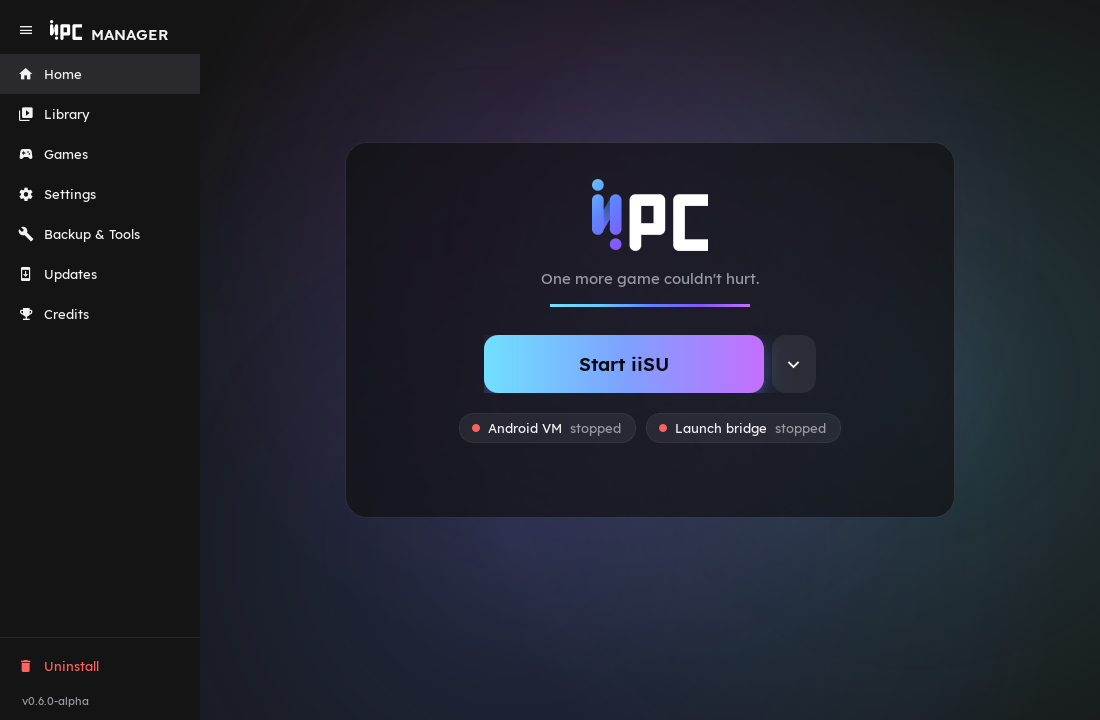
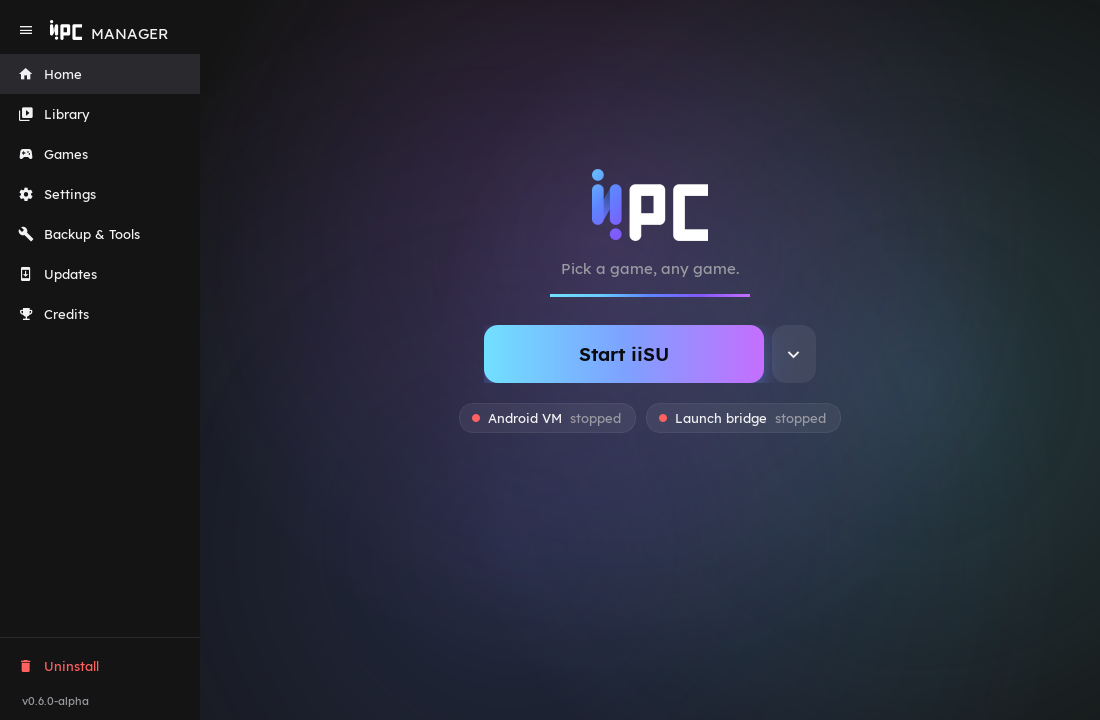
A light theme for the Manager
- Settings > General > Manager theme: Match Windows (default), Dark or
  Light, applied when the Manager next opens. Setup follows it too.
- The light palette lives beside the dark one in shared/qt_theme.py; the
  black iiPC mark is used on it.
- "SETUP" and "MANAGER" beside the mark in the main UI font, regular weight.
- Home's translucent panel removed.
- Docs screenshots stay dark whatever the PC is set to.

Changed region(s): [[0.3091, 0.1833, 0.8655, 0.7333], [0.0927, 0.0306, 0.1545, 0.0611]]

diff --git a/shared/qt_theme.py b/shared/qt_theme.py
@@ -1,5 +1,5 @@
 """
-Shared dark-UI theme for Community-iiSU-PC's PySide6 front ends.
+Shared dark and light UI theme for Community-iiSU-PC's PySide6 front ends.
 
 It uses what Qt offers: real rounded corners, a native gradient brush, and a
 stylesheet Qt fully owns end to end (including dropdown popups).
@@ -14,25 +14,76 @@ from pathlib import Path
 
 from PySide6.QtGui import QColor, QFont, QFontDatabase, QLinearGradient, QPalette
 
-BG = "#141414"
-PANEL_BG = "#212124"
-PANEL_BG_HOVER = "#2a2a2e"
-TEXT = "#f2f2f4"
-TEXT_DIM = "#9a9aa2"
-GRADIENT_STOPS = ["#71e0ff", "#68ccff", "#5e84ff", "#8258fa", "#c56eff"]
-GREEN = "#4fd67a"
-RED = "#ff6161"
-AMBER = "#e8a33d"
-GRAY = "#5a5a60"
+import json
+import os
 
-# Shared by every input widget.
-INPUT_BG = "#0e0e10"
-LOG_TEXT = "#c9c9ce"
-ACCENT_BG = "#3a3a40"
-ACCENT_BG_HOVER = "#48484f"
+
+def _chosen_theme() -> str:
+    """"dark" or "light", picked once when this module is first imported (so
+    changing it takes a restart). IIPC_THEME wins (screenshots, tests), then
+    "manager_theme" in bridge/config.json: "dark", "light", or "system"
+    (the default), which follows Windows' app mode."""
+    choice = os.environ.get("IIPC_THEME", "").strip().lower()
+    if not choice:
+        config_path = Path(__file__).resolve().parent.parent / "bridge" / "config.json"
+        try:
+            choice = str(json.loads(config_path.read_text(encoding="utf-8")).get("manager_theme", "system")).lower()
+        except (OSError, ValueError, AttributeError):
+            choice = "system"
+    if choice in ("dark", "light"):
+        return choice
+    try:
+        from bridge.system_theme import detect_theme
+
+        return detect_theme()
+    except Exception:
+        return "dark"
+
+
+THEME = _chosen_theme()
+IS_LIGHT = THEME == "light"
+
+GRADIENT_STOPS = ["#71e0ff", "#68ccff", "#5e84ff", "#8258fa", "#c56eff"]
 DIRTY_BG = "#c98a2b"
 DIRTY_BG_HOVER = "#d99a3b"
 DIRTY_TEXT = "#1a1206"
+
+if IS_LIGHT:
+    BG = "#f3f3f6"
+    PANEL_BG = "#ffffff"
+    PANEL_BG_HOVER = "#e7e8ee"
+    TEXT = "#1a1a1f"
+    TEXT_DIM = "#686872"
+    GREEN = "#1f9d4f"
+    RED = "#d63a3a"
+    AMBER = "#b5730f"
+    GRAY = "#a9a9b2"
+    INPUT_BG = "#fbfbfd"
+    LOG_TEXT = "#34343b"
+    ACCENT_BG = "#dcdde5"
+    ACCENT_BG_HOVER = "#cfd0d9"
+    # Focus and links: the gradient's cyan is too pale on white.
+    FOCUS = "#3a5ac4"
+    # The colour see-through tints are mixed from, as "r, g, b".
+    INK_RGB = "0, 0, 0"
+    SELECTED_TEXT = "#ffffff"
+else:
+    BG = "#141414"
+    PANEL_BG = "#212124"
+    PANEL_BG_HOVER = "#2a2a2e"
+    TEXT = "#f2f2f4"
+    TEXT_DIM = "#9a9aa2"
+    GREEN = "#4fd67a"
+    RED = "#ff6161"
+    AMBER = "#e8a33d"
+    GRAY = "#5a5a60"
+    INPUT_BG = "#0e0e10"
+    LOG_TEXT = "#c9c9ce"
+    ACCENT_BG = "#3a3a40"
+    ACCENT_BG_HOVER = "#48484f"
+    FOCUS = GRADIENT_STOPS[0]
+    INK_RGB = "255, 255, 255"
+    SELECTED_TEXT = "#101010"
 
 # 8/16/24px spacing scale used consistently by PageBase/Card, so no page
 # hand-tunes its own padding.
@@ -139,7 +190,7 @@ def build_palette() -> QPalette:
     palette.setColor(QPalette.ColorRole.ToolTipBase, QColor(PANEL_BG))
     palette.setColor(QPalette.ColorRole.ToolTipText, QColor(TEXT))
     palette.setColor(QPalette.ColorRole.Highlight, QColor(GRADIENT_STOPS[2]))
-    palette.setColor(QPalette.ColorRole.HighlightedText, QColor("#101010"))
+    palette.setColor(QPalette.ColorRole.HighlightedText, QColor(SELECTED_TEXT))
     palette.setColor(QPalette.ColorGroup.Disabled, QPalette.ColorRole.Text, QColor(TEXT_DIM))
     palette.setColor(QPalette.ColorGroup.Disabled, QPalette.ColorRole.ButtonText, QColor(TEXT_DIM))
     return palette
@@ -221,14 +272,6 @@ QPushButton#RowButton:hover {{
     background-color: {ACCENT_BG};
 }}
 
-QFrame#HomePanel {{
-    background-color: rgba(14, 14, 16, 165);
-    border: 1px solid rgba(255, 255, 255, 18);
-    border-radius: 22px;
-}}
-QFrame#HomePanel QLabel {{
-    background: transparent;
-}}
 QPushButton#HomePrimary {{
     border-radius: 14px;
     padding: 10px 28px;
@@ -246,7 +289,7 @@ QPushButton#HomePrimary:pressed {{
 }}
 QPushButton#HomePrimary[mode="stop"] {{
     color: {TEXT};
-    background: rgba(255, 255, 255, 0.07);
+    background: rgba({INK_RGB}, 0.07);
     border: 1px solid rgba(255, 97, 97, 0.6);
 }}
 QPushButton#HomePrimary[mode="stop"]:hover {{
@@ -254,23 +297,23 @@ QPushButton#HomePrimary[mode="stop"]:hover {{
 }}
 QPushButton#HomePrimary:disabled, QPushButton#HomePrimary[mode="stop"]:disabled {{
     color: {TEXT_DIM};
-    background: rgba(255, 255, 255, 0.07);
+    background: rgba({INK_RGB}, 0.07);
     border: none;
 }}
 QPushButton#HomeCaret {{
     border-radius: 14px;
     padding: 0;
-    background: rgba(255, 255, 255, 0.07);
+    background: rgba({INK_RGB}, 0.07);
 }}
 QPushButton#HomeCaret:hover {{
-    background: rgba(255, 255, 255, 0.14);
+    background: rgba({INK_RGB}, 0.14);
 }}
 QPushButton:focus {{
-    color: {GRADIENT_STOPS[0]};
+    color: {FOCUS};
     background-color: {PANEL_BG_HOVER};
 }}
 QCheckBox:focus, QRadioButton:focus {{
-    color: {GRADIENT_STOPS[0]};
+    color: {FOCUS};
 }}
 
 QPushButton#HelpButton {{
@@ -287,14 +330,14 @@ QPushButton#HelpButton:hover {{
 }}
 QFrame#ProblemCard {{
 
-    background-color: rgba(18, 18, 22, 0.82);
+    background-color: {PANEL_BG};
     border: 1px solid rgba(255, 107, 107, 0.45);
     border-radius: 14px;
 }}
 QFrame#StatusChip {{
 
-    background-color: rgba(255, 255, 255, 0.06);
-    border: 1px solid rgba(255, 255, 255, 0.08);
+    background-color: rgba({INK_RGB}, 0.06);
+    border: 1px solid rgba({INK_RGB}, 0.08);
     border-radius: 14px;
 }}
 QFrame#StatusChip QLabel {{
@@ -316,7 +359,7 @@ QLineEdit, QTextEdit, QPlainTextEdit {{
     border-radius: 4px;
     padding: 4px 6px;
     selection-background-color: {GRADIENT_STOPS[2]};
-    selection-color: #101010;
+    selection-color: {SELECTED_TEXT};
 }}
 QLineEdit:focus, QTextEdit:focus, QPlainTextEdit:focus {{
     border: 1px solid {GRADIENT_STOPS[2]};
@@ -356,7 +399,7 @@ QComboBox QAbstractItemView {{
     color: {TEXT};
     border: 1px solid {PANEL_BG_HOVER};
     selection-background-color: {GRADIENT_STOPS[2]};
-    selection-color: #101010;
+    selection-color: {SELECTED_TEXT};
     outline: none;
 }}
 
@@ -384,7 +427,7 @@ QTreeView::item, QTableView::item, QListView::item {{
 }}
 QTreeView::item:selected, QTableView::item:selected, QListView::item:selected {{
     background-color: {GRADIENT_STOPS[2]};
-    color: #101010;
+    color: {SELECTED_TEXT};
 }}
 QHeaderView::section {{
     background-color: {PANEL_BG};
@@ -449,7 +492,7 @@ QMenu::item {{
 }}
 QMenu::item:selected {{
     background-color: {GRADIENT_STOPS[2]};
-    color: #101010;
+    color: {SELECTED_TEXT};
 }}
 QMenu::separator {{
     height: 1px;

diff --git a/bridge/ui/pages/settings/general.py b/bridge/ui/pages/settings/general.py
@@ -4,10 +4,13 @@ Split out of the Advanced page, which keeps only the expert settings."""
 
 import bridge.ui  # noqa: F401; import-time side effect: puts root/bridge/installer on sys.path
 
-from PySide6.QtWidgets import QCheckBox, QHBoxLayout, QLabel, QSpinBox
+from PySide6.QtWidgets import QCheckBox, QComboBox, QHBoxLayout, QLabel, QSpinBox
 
 from bridge.ui.pages.base import PageBase
 from shared.qt_theme import TEXT_DIM
+
+
+THEME_CHOICES = [("Match Windows", "system"), ("Dark", "dark"), ("Light", "light")]
 
 
 class GeneralPage(PageBase):
@@ -15,7 +18,22 @@ class GeneralPage(PageBase):
         super().__init__(parent, scrollable_body=True)
         self.window = window
 
-        self.add_header("General", "How starting iiSU behaves.")
+        self.add_header("General", "How the Manager looks and how starting iiSU behaves.")
+
+        theme_row = QHBoxLayout()
+        theme_label = QLabel("Manager theme:")
+        theme_row.addWidget(theme_label)
+        self.theme_combo = QComboBox()
+        for label, value in THEME_CHOICES:
+            self.theme_combo.addItem(label, value)
+        self.theme_combo.setAccessibleName("Manager theme")
+        theme_label.setBuddy(self.theme_combo)
+        theme_row.addWidget(self.theme_combo)
+        theme_note = QLabel("Takes effect next time the Manager opens.")
+        theme_note.setStyleSheet(f"color: {TEXT_DIM};")
+        theme_row.addWidget(theme_note)
+        theme_row.addStretch(1)
+        self.body_layout.addLayout(theme_row)
 
         self.auto_rescan_check = QCheckBox("Rescan iiSU's library by itself when games are added or removed")
         self.auto_rescan_check.setToolTip(
@@ -71,6 +89,8 @@ class GeneralPage(PageBase):
     def reload_from_config(self) -> None:
         config = self.window.config_data
         self.auto_rescan_check.setChecked(bool(config.get("auto_rescan_library", True)))
+        index = self.theme_combo.findData(str(config.get("manager_theme", "system")))
+        self.theme_combo.setCurrentIndex(max(0, index))
         self.theme_sync_check.setChecked(bool(config.get("sync_android_theme", False)))
         self.show_overlay_check.setChecked(bool(config.get("show_boot_overlay", True)))
         self.overlay_details_check.setChecked(bool(config.get("boot_overlay_details", False)))
@@ -82,6 +102,9 @@ class GeneralPage(PageBase):
 
     def get_auto_rescan_library(self) -> bool:
         return self.auto_rescan_check.isChecked()
+
+    def get_manager_theme(self) -> str:
+        return self.theme_combo.currentData()
 
     def get_sync_android_theme(self) -> bool:
         return self.theme_sync_check.isChecked()

diff --git a/bridge/ui/widgets/brand_mark.py b/bridge/ui/widgets/brand_mark.py
@@ -15,7 +15,7 @@ import math
 from pathlib import Path
 
 from PySide6.QtCore import QSize, Qt, QTimer
-from PySide6.QtGui import QColor, QFont, QImage, QLinearGradient, QPainter
+from PySide6.QtGui import QColor, QImage, QLinearGradient, QPainter
 from PySide6.QtWidgets import QWidget
 
 from shared.qt_theme import GRADIENT_STOPS
@@ -30,9 +30,14 @@ _CYCLE_SECONDS = 7.0
 
 
 class BrandMark(QWidget):
-    def __init__(self, height: int, animated: bool = False, parent=None, ink: str = "light"):
+    def __init__(self, height: int, animated: bool = False, parent=None, ink: str | None = None):
         """ink is "light" (the white mark, for dark backgrounds) or "dark"
-        (the black one, for light backgrounds)."""
+        (the black one, for light backgrounds); by default it suits the
+        Manager's theme."""
+        if ink is None:
+            from shared.qt_theme import IS_LIGHT
+
+            ink = "dark" if IS_LIGHT else "light"
         super().__init__(parent)
         self._animated = animated
         self._t = 0.0
@@ -165,13 +170,10 @@ class BrandTitle(QWidget):
         layout.setSpacing(round(mark_height * 0.3))
         self.mark = BrandMark(mark_height, animated=animated)
         label = QLabel(word.upper() if self.mark.is_available() else f"Community-iiSU-PC {word}")
-        # Bahnschrift, the face the mark's own "PC" is drawn in, so the word
-        # reads as part of the logo; light and spaced out beside the heavy mark.
-        font = Fonts.brand(11)
-        font.setWeight(QFont.Weight.Light)
-        font.setLetterSpacing(QFont.SpacingType.PercentageSpacing, 112)
+        # The main UI font, like the sidebar's "MANAGER".
+        font = Fonts.ui(11)
         # The word's capitals stand as tall as the "PC" in the mark.
-        font.setPixelSize(round(mark_height * 0.78))
+        font.setPixelSize(round(mark_height * 0.75))
         label.setFont(font)
         label.setStyleSheet(f"color: {TEXT}; background: transparent;")
         if self.mark.is_available():

diff --git a/bridge/ui/onboarding_wizard.py b/bridge/ui/onboarding_wizard.py
@@ -51,7 +51,7 @@ from bridge.ui.widgets.display_preview import DisplayPreview
 from bridge.ui.widgets.emulator_overview import EmulatorOverview
 from bridge.ui.widgets.gradient_divider import GradientDivider
 from bridge.ui.workers.task_runner import run_in_background
-from shared.qt_theme import GREEN, GRADIENT_STOPS, RED, SPACING_LG, SPACING_MD, SPACING_SM, Fonts, apply_theme
+from shared.qt_theme import INPUT_BG, GREEN, GRADIENT_STOPS, RED, SPACING_LG, SPACING_MD, SPACING_SM, Fonts, apply_theme
 
 MODIFIER_NAMES = ["ctrl", "alt", "shift", "win"]
 
@@ -186,7 +186,7 @@ class HotkeyEditor(QWidget):
         self._key = str(initial.get("key", default_key))
         self.key_label = QLabel(self._key.upper())
         self.key_label.setFixedWidth(60)
-        self.key_label.setStyleSheet("background-color: #0e0e10; padding: 4px; border-radius: 4px;")
+        self.key_label.setStyleSheet(f"background-color: {INPUT_BG}; padding: 4px; border-radius: 4px;")
         key_row.addWidget(self.key_label)
         map_button = QPushButton("Map")
         map_button.clicked.connect(self._capture)

diff --git a/bridge/ui/pages/home.py b/bridge/ui/pages/home.py
@@ -120,13 +120,9 @@ class HomePage(PageBase):
         # button: what the next start will be is its tooltip, and the log
         # drawer is a tick box in it, so the page reads as one big button
         # rather than a control panel.
-        # A translucent panel behind the column, so it reads clearly over the
-        # moving glow (#HomePanel in shared/qt_theme.py).
-        center_col = QFrame()
-        center_col.setObjectName("HomePanel")
-        center_col.setAttribute(Qt.WidgetAttribute.WA_StyledBackground)
+        center_col = QWidget()
         center_layout = QVBoxLayout(center_col)
-        center_layout.setContentsMargins(44, 36, 44, 30)
+        center_layout.setContentsMargins(0, 0, 0, 0)
         center_layout.setSpacing(0)
         center_layout.setAlignment(Qt.AlignmentFlag.AlignHCenter)
 

diff --git a/bridge/ui/main_window.py b/bridge/ui/main_window.py
@@ -322,6 +322,9 @@ class ManagerWindow(QMainWindow):
             settings["boot_overlay_details"] = self.general_page.get_boot_overlay_details()
             # Only written once it's been changed from its default (on), so a
             # config from before the setting existed doesn't read as unsaved.
+            manager_theme = self.general_page.get_manager_theme()
+            if manager_theme != "system" or "manager_theme" in self.config_data:
+                settings["manager_theme"] = manager_theme
             # Same for the theme sync, which defaults to off.
             theme_sync = self.general_page.get_sync_android_theme()
             if theme_sync or "sync_android_theme" in self.config_data:

diff --git a/bridge/ui/sidebar.py b/bridge/ui/sidebar.py
@@ -139,7 +139,7 @@ class Sidebar(QWidget):
         header.clicked.connect(self.toggle_clicked.emit)
         self._header_mark = BrandMark(_HEADER_MARK_HEIGHT)
         self._header_title = QLabel(_HEADER_TITLE)
-        title_font = Fonts.ui(11, semibold=True)
+        title_font = Fonts.ui(11)
         title_font.setPixelSize(_HEADER_TITLE_PIXEL_SIZE)
         self._header_title.setFont(title_font)
         # The padding above the letters is so that, centred beside the mark,

diff --git a/scripts/capture_screenshots.py b/scripts/capture_screenshots.py
@@ -16,10 +16,15 @@ Run from the repo root after a change to how the Manager looks:
 
 import argparse
 import json
+import os
 import sys
 import tempfile
 import unittest.mock
 from pathlib import Path
+
+# The docs show the dark theme whatever this PC is set to; IIPC_THEME=light
+# takes the light ones instead.
+os.environ.setdefault("IIPC_THEME", "dark")
 
 PROJECT_ROOT = Path(__file__).resolve().parent.parent
 sys.path.insert(0, str(PROJECT_ROOT))
